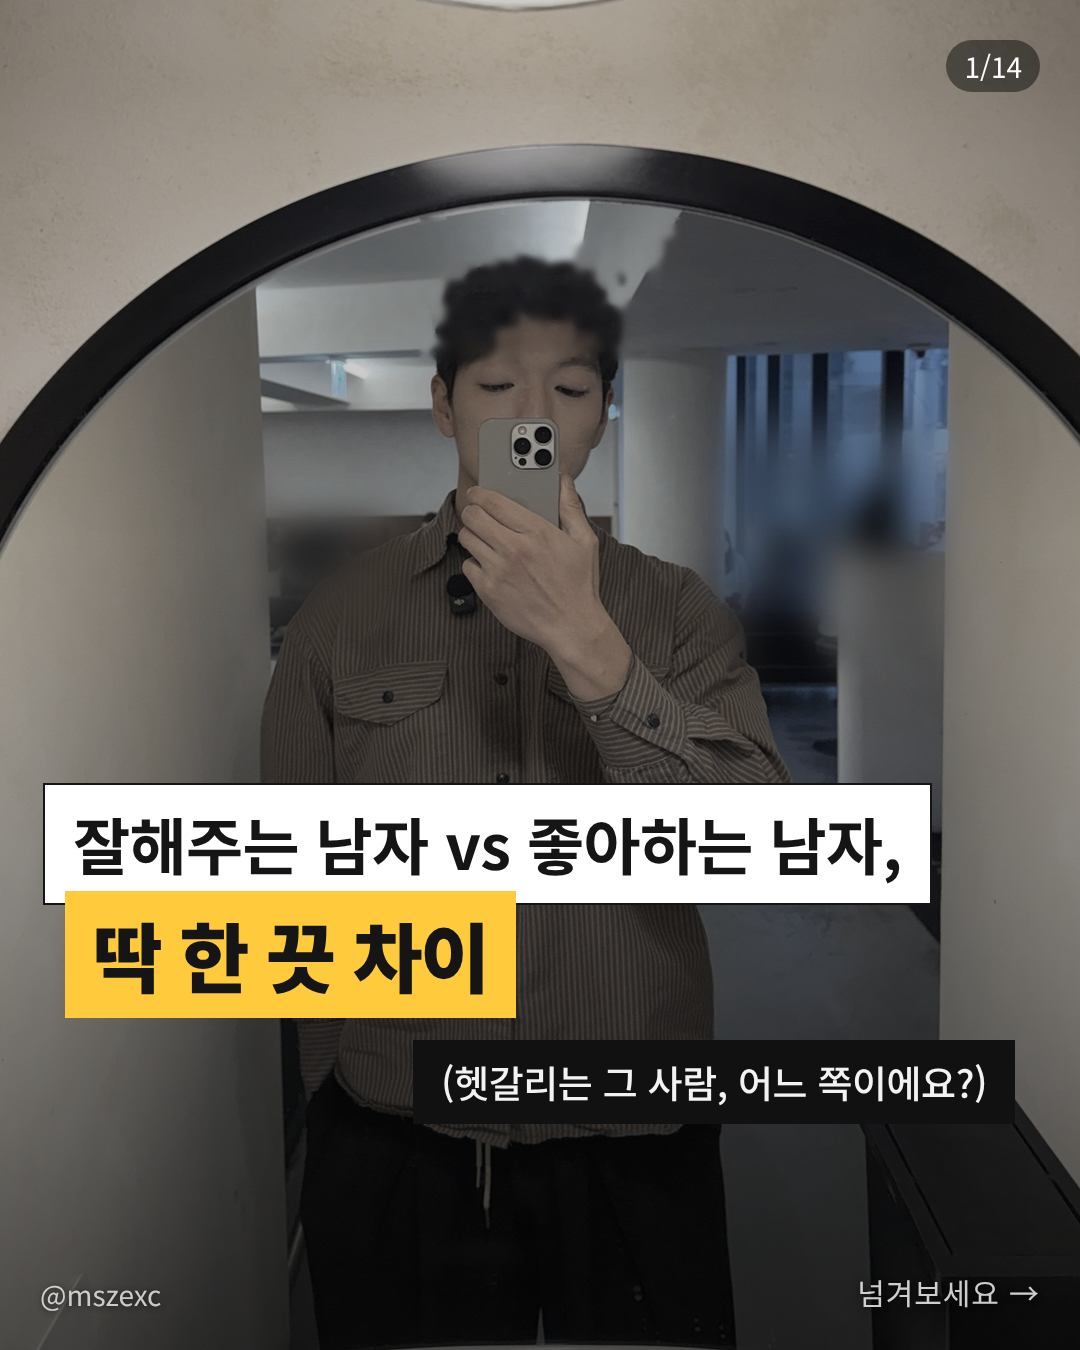
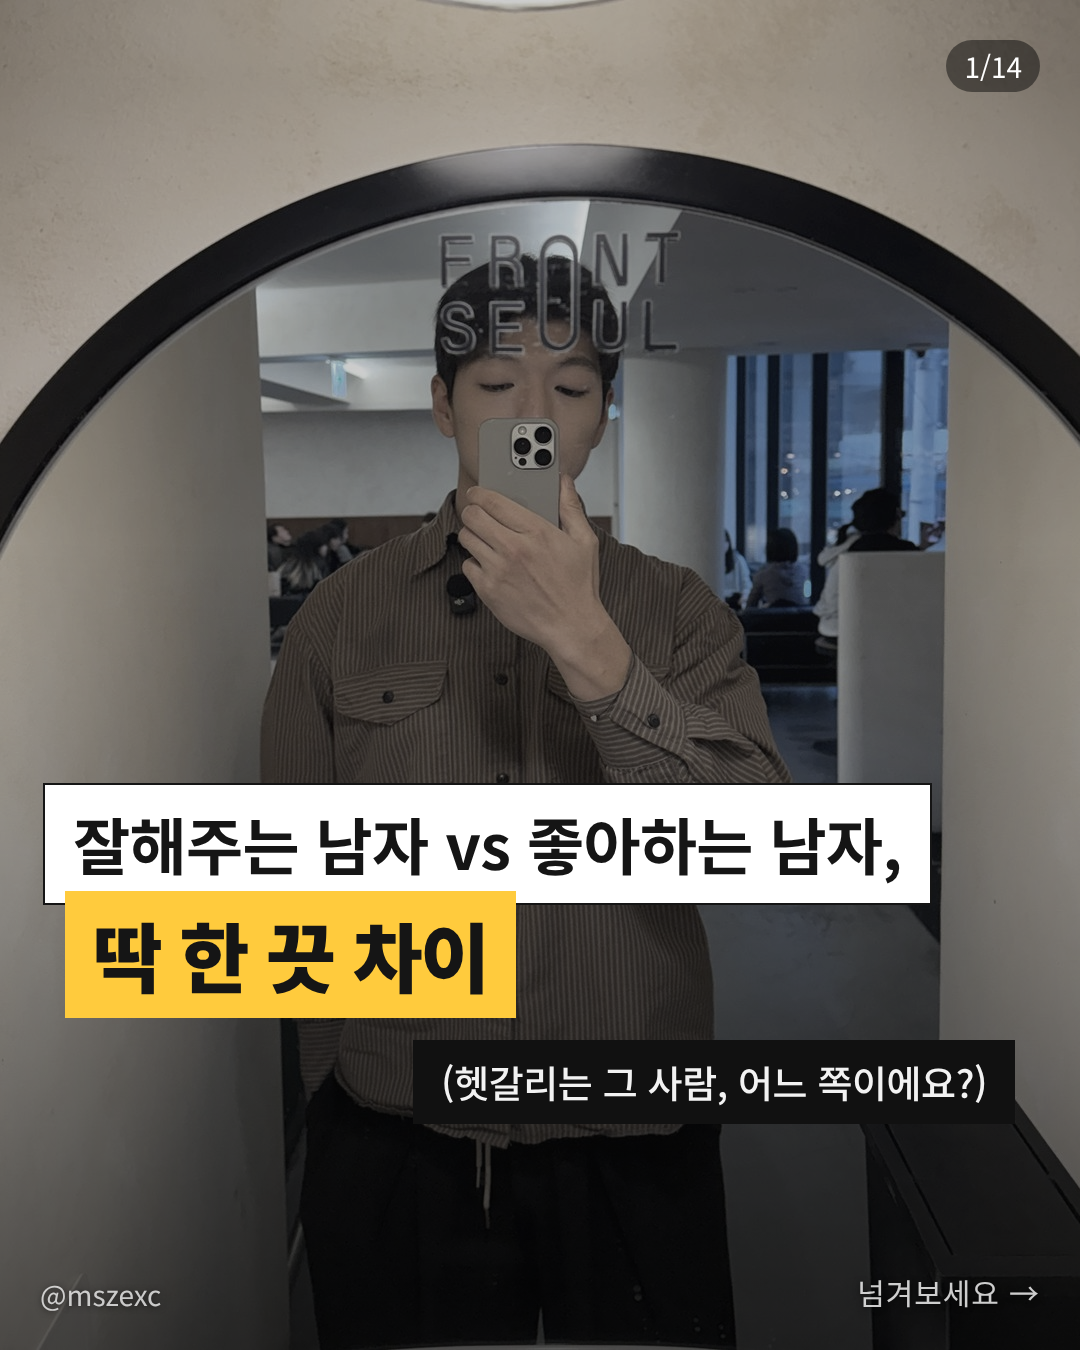
#58 cover: original photo, no blur
Claude-Session: https://claude.ai/code/session_01J9i5yL8MFhQ5W67Sx3nDW6

Changed region(s): [[0.6722, 0.3111, 0.8861, 0.4978], [0.3972, 0.1556, 0.6417, 0.28], [0.2444, 0.3733, 0.3667, 0.4667]]

diff --git a/carousel/photo_story/s57_60.py b/carousel/photo_story/s57_60.py
@@ -25,7 +25,7 @@ PLAN = {
                               ((0, 0.69, 0.04, 0.86), 16), ((0.18, 0.78, 0.34, 0.93), 16), ((0.34, 0.70, 0.50, 0.90), 16), ((0.50, 0.71, 0.64, 0.88), 16), ((0.66, 0.62, 0.81, 0.93), 16), ((0.83, 0.52, 0.97, 0.93), 16), ((0.97, 0.69, 1, 0.85), 16)]),  # 조용해질 땐 이유 한 줄 · 와인 선반 (라벨 흐리게)
         13: ('p58n/src_05', [((0.56, 0.24, 0.76, 0.42), 14), ((0.72, 0.11, 0.96, 0.19), 12)]),  # 당신을 잃는 거예요 · 와인 한 잔 (뒤 손님 · 창 글자 흐리게)
         14: ('p58n/src_07', [((0.26, 0.37, 0.34, 0.49), 14), ((0.80, 0.38, 0.90, 0.59), 14), ((0.26, 0.52, 0.32, 0.57), 10)], (0.38, 0.38, 0.94, 0.94))},                    # 마지막 장: 같은 셀카 가까이
- '59': {1: ('p59n/src_01c', [((0.29, 0.45, 0.41, 0.54), 14, 0.02), ((0.66, 0.42, 0.85, 0.56), 14, 0.02)], (0.10, 0.14, 0.95, 1.0)),               # 11/15 새 사진 · 아치 거울 셀카 (표지 · 거울 글자는 clean_logo.py로 지움 · 뒤 손님 흐리게)
+ '59': {1: ('p59n/src_01', [], (0.10, 0.14, 0.95, 1.0)),               # 11/15 새 사진 · 아치 거울 셀카 (표지 · 11/15 지훈님 요청으로 흐리기 · 글자 지우기 없이 원본)
         3: ('p59n/src_07', []),                                                   # 비슷해 보여도 달라요 · 탁상 조명
         5: ('p59n/src_03', [((0.65, 0.32, 0.84, 0.38), 12), ((0.0, 0.70, 0.48, 0.93), 14), ((0.39, 0.92, 0.47, 0.98), 10), ((0.64, 0.79, 0.81, 0.87), 12)]),  # 부탁하기 전에 · 촛대와 책 (책 제목 흐리게)
         7: ('p59n/src_02', [((0.82, 0.02, 0.94, 0.10), 12), ((0.0, 0.63, 0.22, 0.97), 16)]),  # 다음 약속을 잡아요 · 크리스마스트리 (메뉴판 · 안내문 흐리게)
